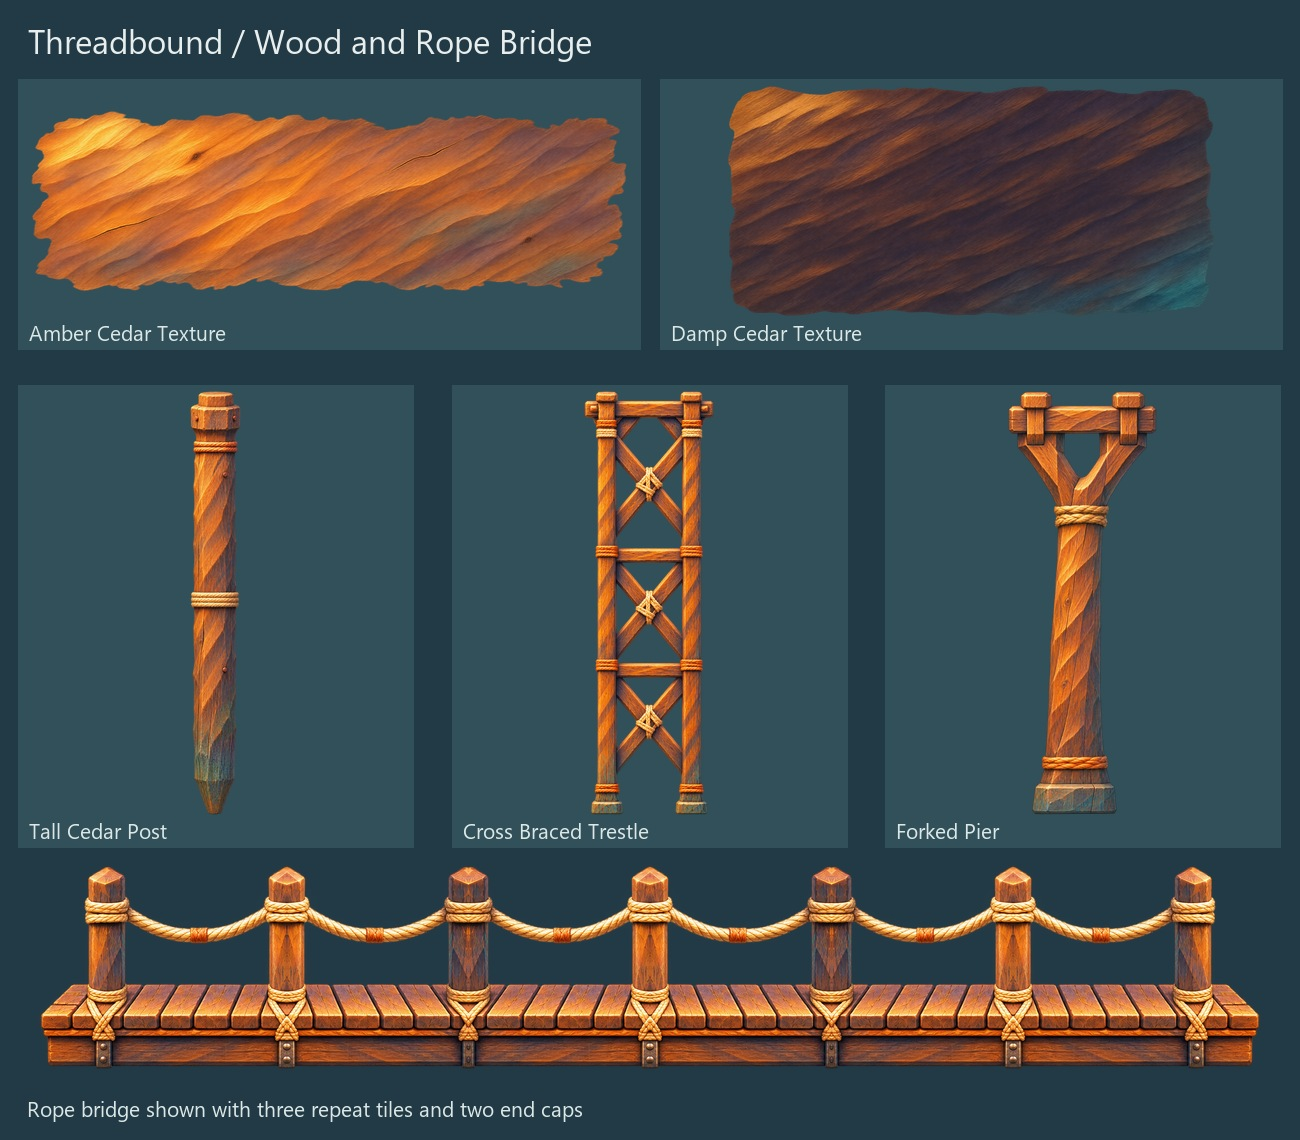
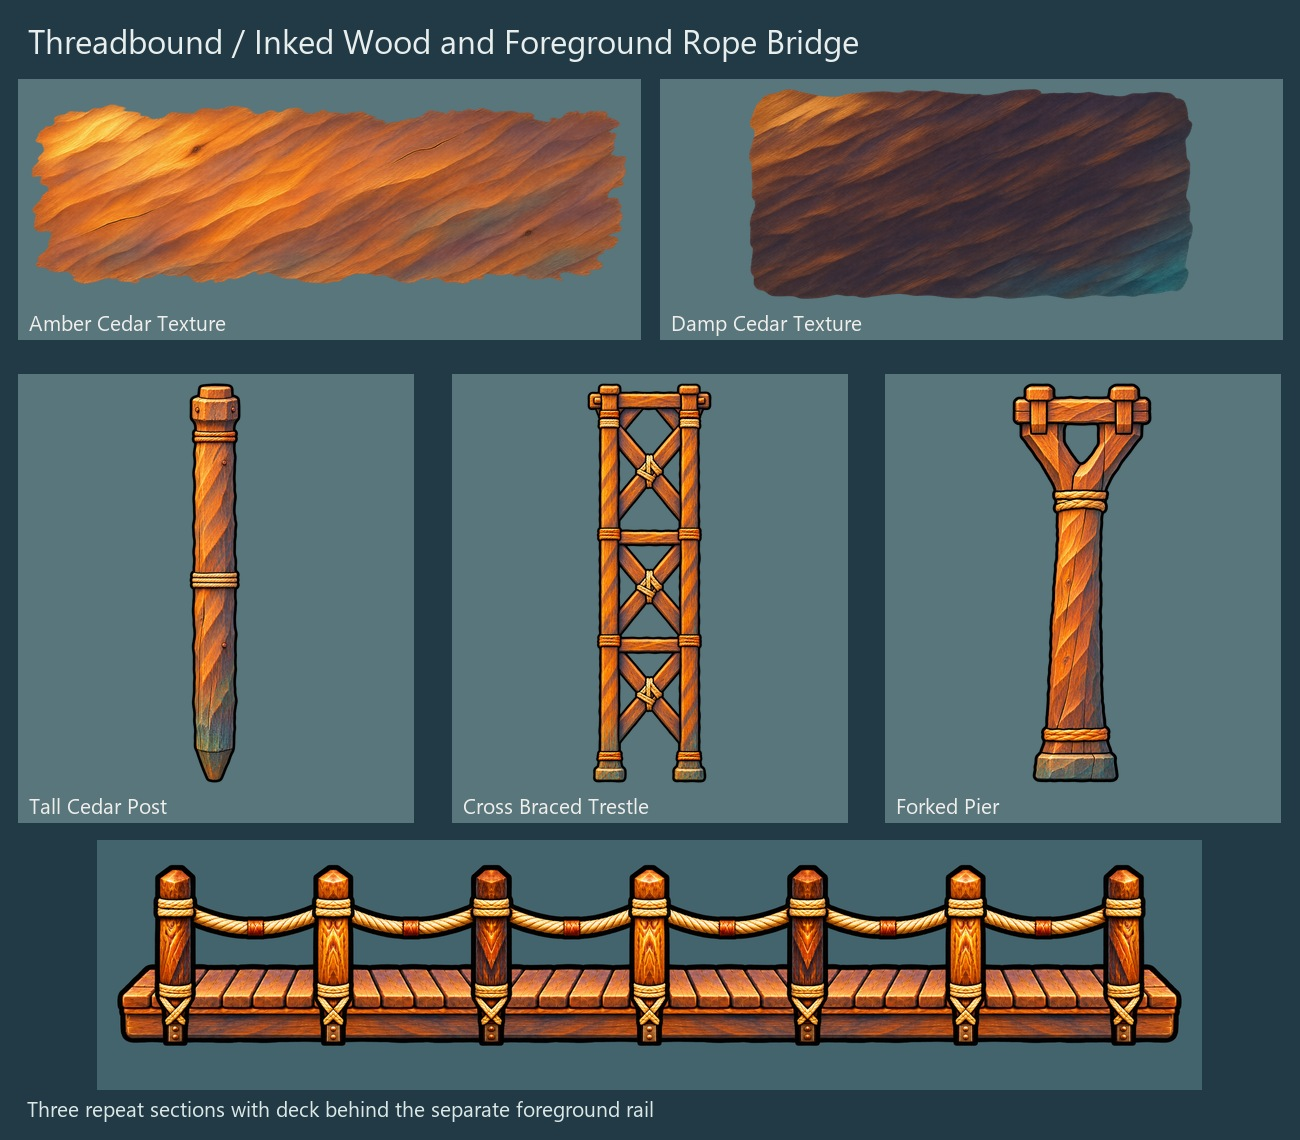
art: ink and split Blue bridge foreground

diff --git a/ArtSource/BlueBiome/Krita/Woven_Blue_Wood_And_Bridge/README.md b/ArtSource/BlueBiome/Krita/Woven_Blue_Wood_And_Bridge/README.md
@@ -1,9 +1,15 @@
 # Woven Blue wood and rope bridge
 
-The kit contains two broad wood texture fields, three tall supports,
-and three bridge pieces. The warm amber and damp cedar fields work like
-the cave textures when clipped inside a painted wall or floor. The
-supports are a straight cedar post, cross-braced trestle, and forked pier.
+The 11 Krita presets use four tags in the Brush Presets docker.
+
+- **Woven Blue - Wood Textures** has warm amber and damp cedar fields for
+  clipping inside your own freehand outlines.
+- **Woven Blue - Timber Supports** has a straight cedar post, cross-braced
+  trestle, and forked pier with black contours.
+- **Woven Blue - Rope Bridge Decks** has inked Start, Repeat, and End
+  segments for the walkable plank deck.
+- **Woven Blue - Rope Bridge Fronts** has matching Start, Repeat, and End
+  segments for the near-side rope and posts.
 
 - [Asset catalog](catalog.jpg)
 - [Full-resolution transparent PNGs](stamps/)
@@ -11,17 +17,20 @@ supports are a straight cedar post, cross-braced trestle, and forked pier.
 - [Editable bridge assembly](Rope_Bridge_Assembly.ora)
 - [Built-in ImageGen prompts, native sizes, and join checks](manifest.json)
 
-At native scale, place a **Start** cap, then any number of **Repeat**
-segments, then **End**. Each cap is 144 px wide and each repeat adds
-744 px and two bays. All three images are 433 px tall. Align their top
-edges on the same row and put each next layer at the previous layer's x
-plus its full width. The standing line is 289 px below the shared top
-edge. For an arbitrary scale, scale the assembled group together.
+Place a **Start** pair, one or more **Repeat** pairs, then the **End** pair.
+At native scale, each cap is 144 px wide and each repeat adds 744 px and
+two bays. All six PNGs are 450 px tall. Place each matching deck and front
+at the same coordinates. Advance by the full width of the previous piece,
+including its transparent canvas. The standing line is 288 px below the
+common top edge. Scale the assembled layers together to keep both passes
+registered.
 
-The three pieces come from one painted span. The repeat's edge columns
-match pixel for pixel, and the deck is opaque across the tested standing
-band. The layered example contains three repeats and two caps.
+The OpenRaster example has three repeats and two caps, with a **Character
+slot** between the deck and the foreground rope and posts. Export the deck
+and fronts as separate passes to reproduce that order in Godot. Put the
+walkable collision along the deck. The front pass supplies the overlap.
 
-The temporary Godot trial uses the Blue shoreline backdrop and current
-player. Normal movement reached the far cap across all three repeats.
-A live frame confirmed the wood and bridge rendered in the game.
+Both repeat joins match pixel for pixel. The temporary Godot trial used the
+current player and Blue shoreline backdrop. The player reached the far cap
+while grounded, and a live frame showed the front rope and posts occluding
+the character as intended.

diff --git a/docs/project_status_and_worklist.md b/docs/project_status_and_worklist.md
@@ -1,5 +1,16 @@
 # Threadbound current TODO list
 
+## November 25 black-outlined Blue bridge foreground
+
+The [revised wood kit](../ArtSource/BlueBiome/Krita/Woven_Blue_Wood_And_Bridge/README.md)
+has black contours on its three timber supports and six bridge pieces.
+The two cedar fills fit inside freehand outlines. Krita has all 11 presets
+active under four Woven Blue tags. Each deck and front pair shares the
+same dimensions, and the 744 px repeat passed pixel-equality seam checks.
+The layered example puts the character between the deck and the near rope
+and posts. A temporary Blue trial verified that layering in a live frame
+and walked the player across three repeats while grounded.
+
 ## November 25 Woven Blue wood and rope bridge
 
 The [wood kit](../ArtSource/BlueBiome/Krita/Woven_Blue_Wood_And_Bridge/README.md)
